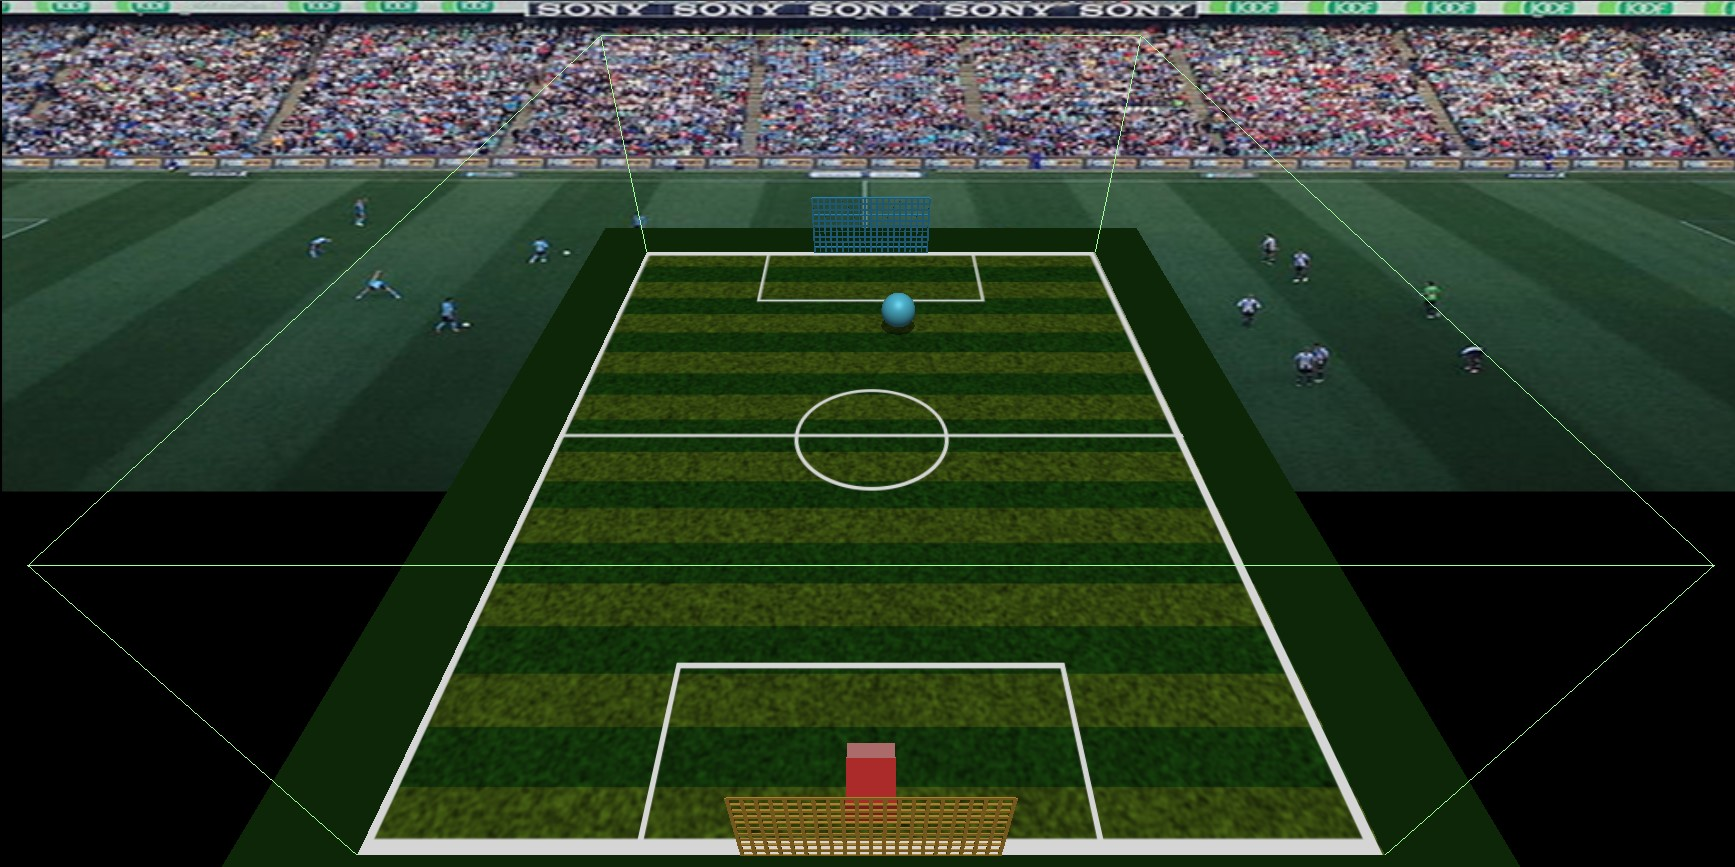
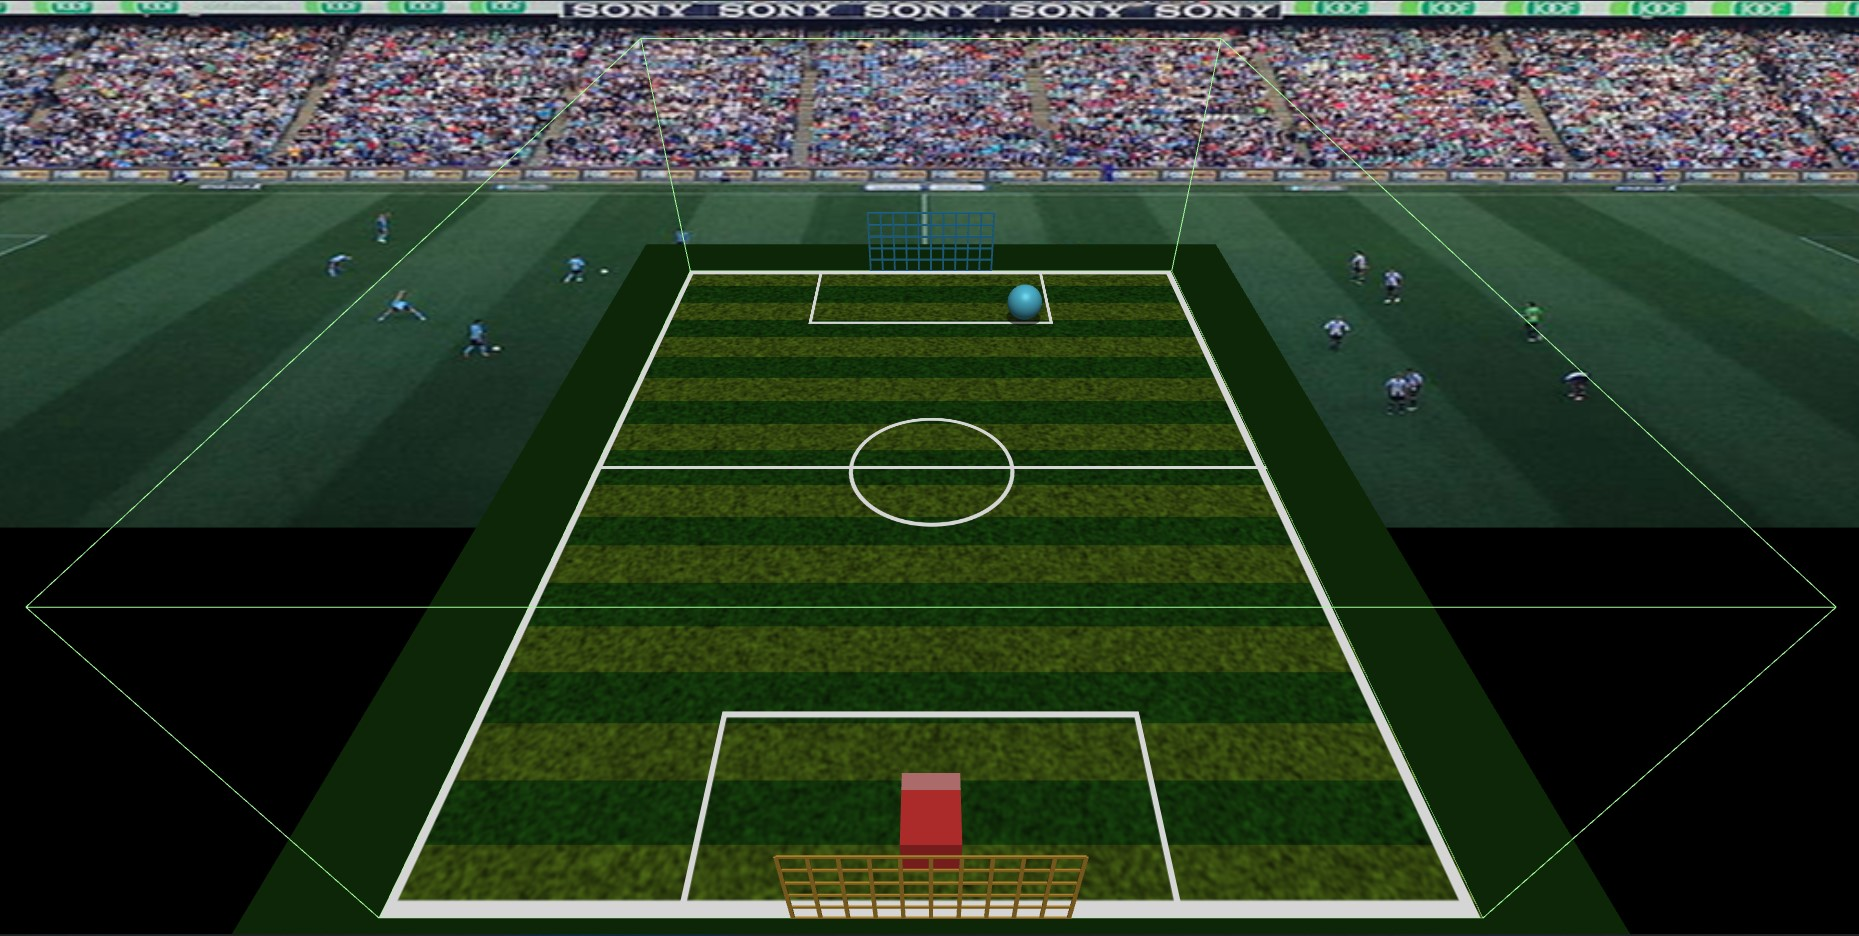
finished readme and code comments

diff --git a/src/CarSoccer.ts b/src/CarSoccer.ts
@@ -78,6 +78,16 @@ export class CarSoccer extends gfx.GfxApp
         // Add the ball to the scene
         this.ball.reset();
         this.scene.add(this.ball);
+
+
+        // PART 1: 3D DRAWING
+        // You should add code here to draw the 3D boundaries of the pitch
+        // and a grid of boxes that form the "net" for each goal.
+
+
+        // ADD PART 1 CODE HERE
+
+
     }
 
     update(deltaTime: number): void 
@@ -122,8 +132,68 @@ export class CarSoccer extends gfx.GfxApp
             this.car.forwardSpeed = gfx.MathUtils.clamp(this.car.forwardSpeed, -carMaxSpeed, carMaxSpeed);
         }
 
-        // Update the car's velocity and position
+
+        // PART 2: CAR DRIVING
+        // You should add code here to implement car-like steering.  You will likely
+        // also need to make some additions to the Car class.  You do not need to
+        // modify any of the code related to forward movement.
+
+        
+        // ADD PART 2 CODE HERE
+
+
+        // Update the car's velocity and position based on its forward speed
         this.car.update(deltaTime);
+
+
+
+        // PART 3: BALL PHYSICS
+        // This code defines the gravity and friction parameters used in the
+        // instructor's example implementation.  You can feel free to change
+        // them if you want to adjust your game mechanics and difficulty.
+        // Note that these constants are already multiplied by deltaTime,
+        // so they correspond to the movement in this frame only.
+
+        // The gravity constant should be continuously applied each frame
+        const gravity = -20 * deltaTime;
+
+        // The friction constant should be applied when the ball collides
+        // with the ground, walls, or ceiling boundaries to slow it down
+        let frictionSlowDown = 1 - deltaTime / 0.08;
+        frictionSlowDown = gfx.MathUtils.clamp(frictionSlowDown,  0, 1);
+
+
+        // ADD PART 3 CODE HERE
+
+
+        // After you change the ball's velocity, this method needs to be
+        // called to compute its updated position.
+        this.ball.update(deltaTime);
+
+
+
+        // PART 4: BALL-GOAL INTERSECTIONS
+        // If the ball enters a goal, then reset both the car and ball.
+        // Note that a sphere is not a good representation of the rectangular
+        // goal, so if you decide to use a built-in intersection test, you
+        // should use axis-aligned bounding boxes and not bounding spheres.
+        
+
+        // ADD YOUR CODE HERE
+
+
+
+        // PART 5: CAR-BALL COLLISIONS
+        // This is the most challenging part of this assignment.  Make sure
+        // to read all the information described in the README.  If you are
+        // struggling with understanding the math or have questions about
+        // how to implement the equations, then you should seek help from
+        // the instructor or TA. 
+
+
+        // ADD YOUR CODE HERE
+
+
     }
 
     // Set the x or y components of the input vector when either

diff --git a/src/Ball.ts b/src/Ball.ts
@@ -1,3 +1,13 @@
+/* Assignment 2: Car Soccer
+ * CSCI 4611, Fall 2022, University of Minnesota
+ * Instructor: Evan Suma Rosenberg <suma@umn.edu>
+ * License: Creative Commons Attribution-NonCommercial-ShareAlike 4.0 International
+ */ 
+
+// You do not need to change existing code in this class.  However, you may need to 
+// add additional code that extends this class to complete the assignment.
+// You are also free to modify the existing code if you want.
+
 import * as gfx from 'gophergfx'
 
 export class Ball extends gfx.SphereMesh
@@ -39,11 +49,20 @@ export class Ball extends gfx.SphereMesh
 
     update(deltaTime: number): void
     {
-        // Add your code here
+        // p' = p + v * dt
+        this.position.x += this.velocity.x * deltaTime;
+        this.position.y += this.velocity.y * deltaTime;
+        this.position.z += this.velocity.z * deltaTime;
+
+        // Update the shadow position so that it is always on the ground
+        // directly underneath the ball.
+        this.shadow.position.y = -this.position.y + 0.005;
     }
 
     reset()
     {
-       // Add your code here
+       // Reset the ball to its initial position
+       this.position.set(0, this.radius/2, 0);
+       this.shadow.position.y = -this.position.y + 0.005;
     }
 }

diff --git a/src/Car.ts b/src/Car.ts
@@ -1,3 +1,13 @@
+/* Assignment 2: Car Soccer
+ * CSCI 4611, Fall 2022, University of Minnesota
+ * Instructor: Evan Suma Rosenberg <suma@umn.edu>
+ * License: Creative Commons Attribution-NonCommercial-ShareAlike 4.0 International
+ */ 
+
+// You do not need to change existing code in this class.  However, you may need to 
+// add additional code that extends this class to complete the assignment.
+// You are also free to modify the existing code if you want.
+
 import * as gfx from 'gophergfx'
 
 export class Car extends gfx.BoxMesh

diff --git a/README.md b/README.md
@@ -42,9 +42,133 @@ npm run start
 
 Webpack should launch your program in a web browser automatically.  If not, you can run it by pointing your browser at `http://localhost:8080`.
 
+## Game Description
+
+Here is a screenshot from an example of the game you will create.
+
+![Screenshot](./images/screenshot.jpg)
+
+The playing field, or pitch, is rendered out of 3D boxes and line segments with some image textures mapped onto them. The car is drawn using simple 3D primitives; in our solution, it's just a box. The soccer ball is a sphere. The car can be moved around using the WASD or arrow keys. When the car hits the ball, the ball reacts in a "physically plausible" way, updating its current velocity based on the direction it was hit and the velocity of the car at the time of impact. 
+
+Most computer games modeled after real sports are designed to balance the tradeoff between physical realism and game play. A completely realistic simulation of, say, soccer would be quite complex and would make it really difficult to play the game on a 2D computer screen, especially with the limited amount of control possible using a keyboard/mouse or controller input. In our case, the playing field is the size of a real soccer pitch, and the car is about the size of an actual car, but the ball is absurdly large to make it easy to hit. 
+
+## Programming Requirements
+
+The starter code will render the pitch, soccer ball, and car.  The car can be moved forward and backward, but turning has not yet been implemented. Your assignment will be to do the following:
+
+1. Complete the 3D graphics for drawing the goals and the bounding box of the playing area.
+2. Extend the simple car movement with rotation so that the car can be steered around the pitch.
+3. Have the computer put the ball into play, kicking off the ball from the center of the pitch whenever you press the space bar.
+4. Implement gravity for the ball.
+5. Make the ball bounce off the ground and the imaginary "walls" and "ceiling" that bound the pitch.
+6. Detect when the ball hits the goals on either side of the pitch and reset the game.
+7. Implement the physics math to simulate collisions between the ball and car.
+
 ## Rubric
 
-Graded out of 20 points.
+Graded out of 20 points.  Note that many of these steps are described in greater detail under [Useful Information](#Useful-Information).
+
+#### Part 1: 3D Drawing
+
+- Draw lines around the 3D boundary of the soccer pitch so that we can see the box that we are playing inside.  You can use the `Line3` class in GopherGfx, and there a couple possible ways to implement this. The easiest option would be to use the `createFromBox()` convenience function that takes in a `BoundingBox3` object as input.  Alternatively, you could define an array of vertices to manually create each line segment, but this is a more advanced method. (2)
+
+- Draw a grid of boxes that form the "net" for each goal.  In the instructor's example, the `BoxMesh` class was used to define base objects for the horizontal and vertical box, and then the `MeshInstance` class was used to place them at different locations throughout the scene. However, you may alternatively use the `Line3` class instead.  Note that in OpenGL/WebGL, line thickness is always drawn as 1 pixel wide; if you want a thicker line, you will need to use a box. (2)
+
+#### Part 2: Car Driving
+
+- Currently, the car moves forwards and backwards, but cannot turn.  Add left/right steering as described below in the section on the car driving model.  (2)
+- When the user steers the car left or right, the turn rate should be proportional to its forward movement speed. You cannot turn a car if it is not moving! (2)
+
+#### Part 3: Ball Physics
+
+- When the game starts or the space bar is pressed, launch the ball through the air based on a random initial velocity. (1)
+- Update the ball's velocity each time step based on the acceleration due to gravity. (1)
+- Detect contacts between the ball and the ground, and make the ball bounce in the correct direction.  In other words, the ball's velocity vector should be reflected about the normal of the ground.  This can be computed by simply negating the y component of the ball's velocity vector. (1)
+- Detect when the ball hits the walls and the ceiling and make it bounce off them too. (1)
+- Decrease the speed of the ball when it bounces. This is due to friction and other factors, but you do not need to simulate these; just decrease the velocity by some constant. (1)
+
+#### Part 4: Ball-Goal Intersections
+
+- When the ball hits one of the goals, reset the car to the initial position and relaunch the ball from the center of the pitch. You don't have to animate the ball actually going *into* the goal, just detect when the ball enters these special rectangular regions.  As with many problems in computer graphics, there are multiple ways to accomplish this.  You could implement the code to manually check if the ball has entered the predefined goal regions based on its position and radius.  Alternatively, you could define a new `Transform3` object for each goal, set the corners of each one's bounding box, and then use the `intersects()` method to perform an axis-aligned bounding box intersection test with the ball object.   (2)
+
+#### Part 5: Car-Ball Collisions
+
+1. Detect contact between the ball and the car using the sphere-sphere collision approach, as described below. (2)
+
+2. Compute the new velocity of the ball after the collision with the car according to the physics formula described below.  (3)
+
+## Useful Information
+
+#### Drawing the Soccer Field
+
+The coordinate system and dimensions of the pitch (in meters) are shown below. The support code is already set up to work in units of meters, matching the diagram above. The ball itself has a radius of 2.6 meters. Note that this picture also includes thin grid lines that mark the goals and the bounding box for the playing area. These are the lines you should draw to complete the 3D graphics model of the pitch.
+
+![Field Dimensions](./images/dimensions.png)
+
+#### Car Driving Model
+
+A variety of strategies can be used to control the car. We are going for something that is a good balance between realism and playability. We suggest the following controls:
+
+- Think of holding the Up Arrow key as putting your foot on the gas pedal with the car in Drive. The car should speed up until it reaches some max speed.
+- Think of holding the Down Arrow key as putting your foot on the gas pedal with the car in Reverse.  Again the car should speed up until it reaches some max speed, but since this will be in reverse, you might want to think of it as -maxSpeed.
+- When Up or Down are not pressed, you are not giving the car any gas, so it should slow down until it stops.
+- When you hold the Left Arrow or Right Arrow key this is like turning the steering wheel all the way to the left or right. The car should then turn, assuming its speed is not zero. You cannot turn a car that is not moving forward or backward.
+
+The starter code includes a `Car` class, which extends from the GopherGfx `BoxMesh` class.  This class stores the forward speed as a `number` and the velocity as a `Vector3` object.  The forward speed defines the **distance** of forward movement (relative to the car's local reference frame) that should be applied when the update method is called.  The velocity defines the **direction and distance** of movement in world coordinates.
+
+You will probably want to add a sensitivity parameter to the controls. For example, in the starter code, we include variable settings for the car's maximum speed and acceleration rate.  These constants determine how responsive you car is. For example, if your car's acceleration rate is 80 meters/sec, you can multiply this by `deltaTime` to determine how much the car should accelerate this frame and then use it to modify the car's speed.  You may want to implement a similar constant to control the turning rate in radians/sec, and then multiply by `deltaTime` to determine how much the car should turn.  However, remember that the turning rate should also be adjusted according to the car's forward speed!
+
+#### Simulating Physics
+
+To make the game easier to implement, we will make a few simplifying assumptions about the physics. Specifically, you should follow these guidelines in your code.
+
+**Motion:** When implementing ball physics, your code should change its velocity, not its position.  The change in position is computed each frame in the `update()` method of the `Ball` class, according to the formula: p*'* = p + v *dt*.
+
+**Friction:** To simulate friction, you can simply decrease the speed of the ball a bit when it hits anything. For example, you might make the speed after bouncing 0.8 times the speed before the bounce.  The starter code already includes the friction slow down parameter used in the instructor's example.
+
+**Gravity:** The ball should accelerate downward due to gravity, but this should be a plausible approximation of gravity. This is, after all, a game where a huge soccer ball is being hit by a speeding car. You may find that you need a larger-than-life gravitational acceleration so that the ball does not stay in the air for an annoyingly long time. The starter code already includes the gravity constant used in the instructor's example.
+
+#### Simulating Collisions
+
+One of the main challenges in this assignment is handling collisions between the ball and the car. For collision purposes, we will approximate the car by a sphere, as shown in the figure below, so we only need to detect whether the two spheres representing the car and the ball are intersecting. Of course, this may result in us detecting collisions when the car's rendered geometry does not actually hit the ball, or vice versa, but as long as the size of proxy and the car model are not too different, it shouldn't matter too much to the gameplay.
+
+First, for the purposes of collisions between the car and ball, treat **both objects** as spheres. This simplifies collision tests and it is not as unusual of a simplification as you might think. In games, it is typical to test for collisions using a "proxy geometry" that is much simpler than the 3D model that is actually drawn on the screen. With this approach, you can calculate fast, approximate physics while also having good looking graphics. Second, in real life, when two objects collide, they experience equal and opposite forces, and both their velocities change. To keep things simple, in this assignment we will assume that in a collision between the ball and the car, only the ball's velocity changes, and the car is unaffected.
+
+#### Collision Detection
+
+
+
+![](./images/collision1.png)
+
+In any collision handling routine, there are two main steps: first, detecting whether a collision has occurred, and second, resolving the collision by updating the positions and velocities of the colliding objects. With spheres, collision detection is easy: two spheres have collided if the distance between their centers is less than or equal to the sum of their radii.  You can perform this calculation manually, or you can call the `intersects()` method to check the bounding spheres between the two objects.  Note that in the starting code, the radius of the car's bounding sphere has been manually set to a smaller value because the default radius was a bit too large to provide a good approximation of the collision volume.
+
+Notice that the figure illustrates the case where the two spheres overlap each other. In other words, one has passed inside the other. In real life, if you have two solid spheres, this case would never occur. The spheres would bounce off each other before penetrating each other. However, this happens quite regularly in computer graphics simulation. If you update your simulation once each frame, that means the elapsed time (i.e., `deltaTime` or *dt)* between consecutive frames will be somewhere around 1/30–1/60 second. That is fast, but still not fast enough to capture the *exact* moment when the ball first makes contact with the car. This means that if you update the position of the ball, you may have a situation where p' ends up being inside the car's proxy sphere or inside a wall of the playing field. When you detect this has occurred, you should calculate a corrected position for the ball that places it just outside of the obstacle, as shown in the diagram below:
+
+![](./images/collision2.jpg)
+
+
+
+
+
+#### Updating Velocity After a Collision
+
+When a ball bounces off the ground or a wall or even a sphere its velocity changes, but how? It depends on the normal of the surface at the point the ball comes into contact. Here is an illustration for a ball bouncing off an inclined plane.
+
+![](./images/collision3.png)
+
+The ball approaches with a velocity vector v. When the ball bounces, its velocity is reflected about the normal of the plane n, and its new, reflected velocity is r.  The equation for r is shown above. This is actually a general formula for reflecting any vector about another vector. This gets used in computer graphics lighting equations as well. Note that it involves a dot product!
+
+So, if this is how a ball bounces off an inclined plane, what about a sphere? Actually, we can use the exact same equation. We just need the normal at the exact point where the spheres touch. For a collision between two spheres, this normal is simply parallel to the line joining their centers. 
+
+One final tip is that the discussion above assumes the ball is bouncing off a stationary object. If the object itself is moving, like our car, then all of the math is the same, but rather than using the ball's velocity in the global reference frame of the soccer pitch, we use the ball's velocity relative to the car.
+
+In summary, your ball-car collision routine should follow these steps, each of which involves the kind of 3D graphics math, working with points and vectors, that we have been learning about in class.
+
+- Detect that the two spheres have collided (and probably penetrated each other).
+- "Correct" the collision by adjusting the ball's position so that it is no longer inside the car sphere.
+- Compute the relative velocity of the ball, vrel = vball – vcar.
+- Reflect the relative velocity about the collision normal, r = v - 2(v ⋅ n)n.  Note that this formula will make the ball bounce really fast, so in the instructor's implementation, the constant is reduced to 1.2.  This slows down the ball due to friction and produces movement that appears more plausible.
+- Set the new velocity of the ball, vball = vcar + vrel.
 
 ## Wizard Bonus Challenge
 
